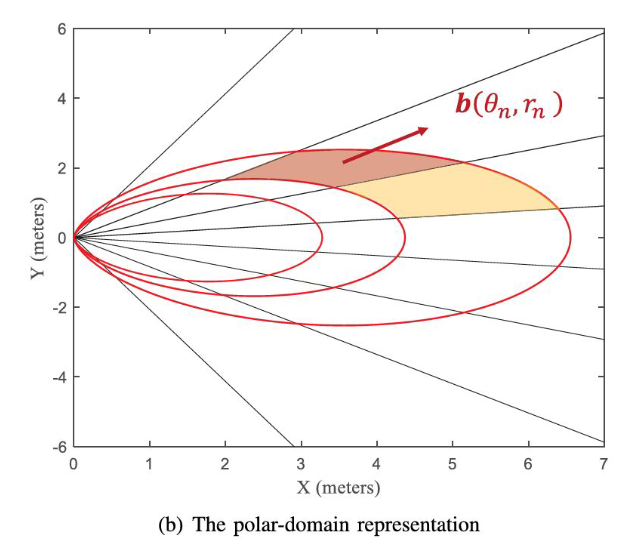
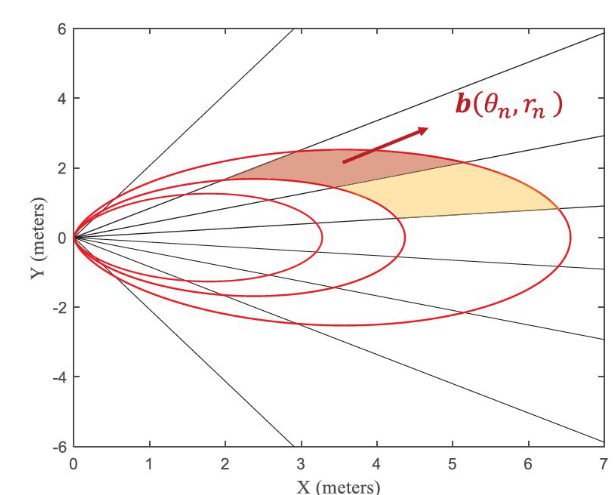
Restructure report: merge W-design sections, fix figure placement, set XeLaTeX
- Add XeLaTeX engine hints (magic comment + .latexmkrc) so fontspec compiles
- Reflow content (remove forced \newpage) and shrink figures toward 5-page limit
- Merge angular/distance sampling and matrix construction into "Design of W" subsections
- Move Polar_domain figure into the Design-of-W section; keep system model early
- Remove Conclusion section and all slide/presentation self-references
- Update Polar_domain.png; ignore latexmk build artifacts

diff --git a/reports/pwc_final_report.tex b/reports/pwc_final_report.tex
@@ -1,3 +1,6 @@
+% !TEX program = xelatex
+% Requires XeLaTeX (or LuaLaTeX): this document uses fontspec/system fonts
+% and will NOT compile with pdflatex.
 \documentclass[12pt,a4paper]{article}
 
 \usepackage[a4paper,margin=1in]{geometry}
@@ -112,7 +115,8 @@ region extending over a large part of a cell.
       {planar wave\\angle $\theta$ only};
     \node[note] at (7.7,-0.9) {Rayleigh boundary};
   \end{tikzpicture}
-  \caption{Propagation models emphasized in the group presentation.}
+  \caption{Far-field (planar-wave) and near-field (spherical-wave)
+  propagation separated by the Rayleigh boundary.}
   \label{fig:fields}
 \end{figure}
 
@@ -121,10 +125,8 @@ $\fieldvec{a}(\theta)$ is sufficient. Near-field phase also depends on
 distance and requires $\fieldvec{b}(\theta,r)$. An angle-only dictionary
 therefore spreads one physical near-field path over many bins.
 
-\newpage
-
 % ---------------------------------------------------------------------------
-% Page 2: Polar-domain representation
+% Near-field channel model (content flows continuously; no forced page break)
 % ---------------------------------------------------------------------------
 \tightsection{Near-Field Channel Model}
 
@@ -160,26 +162,10 @@ $N$, compressed sensing is needed to recover the channel from few pilots.
 
 \begin{figure}[ht]
   \centering
-  \includegraphics[width=0.78\textwidth]{../photos/channel_model.png}
+  \includegraphics[width=0.60\textwidth]{../photos/channel_model.png}
   \caption{System model: the $N$-element array, analog combiner
   $\fieldvec{A}$, RF chains, and polar-domain transform $\fieldvec{W}$.}
   \label{fig:channel-model}
-\end{figure}
-
-Figure~\ref{fig:polar-domain} shows the polar-domain representation in
-physical coordinates. Each elliptical contour corresponds to a distance
-ring on which angles are sampled uniformly. The steering vector
-$\fieldvec{b}(\theta_n,r_n)$ points to a specific angle--distance pair.
-Closer rings are spaced more densely because the sampling is uniform in
-inverse distance $1/r$, which ensures low mutual coherence between
-adjacent columns of $\fieldvec{W}$.
-
-\begin{figure}[ht]
-  \centering
-  \includegraphics[width=0.48\textwidth]{../photos/Polar_domain.png}
-  \caption{The polar-domain representation: distance rings and steering
-  vectors $\fieldvec{b}(\theta_n,r_n)$, adapted from \cite{cui2022}.}
-  \label{fig:polar-domain}
 \end{figure}
 
 With a limited number of paths, the channel remains compressible even
@@ -197,7 +183,7 @@ are shared across subcarriers, which enables simultaneous recovery.
 
 \begin{figure}[ht]
   \centering
-  \begin{tikzpicture}[x=0.72cm,y=2.2cm,font=\small,scale=0.95,transform shape]
+  \begin{tikzpicture}[x=0.66cm,y=1.85cm,font=\small,scale=0.82,transform shape]
     % Left axes
     \draw[->] (0,0) -- (7.2,0) node[right] {angle};
     \draw[->] (0,0) -- (0,1.15) node[above] {magnitude};
@@ -230,17 +216,15 @@ are shared across subcarriers, which enables simultaneous recovery.
   \label{fig:sparsity}
 \end{figure}
 
-Figure~\ref{fig:sparsity} captures the key motivation selected by the
-group. In the angular domain, a far-field path forms a narrow peak, while
+Figure~\ref{fig:sparsity} captures the key motivation. In the angular
+domain, a far-field path forms a narrow peak, while
 a near-field path occupies many bins. In the polar domain, each path is
 represented by an angle--distance pair and the channel again contains only
 a few significant coefficients. This restored sparsity is what makes
 low-pilot compressed sensing practical.
 
-\newpage
-
 % ---------------------------------------------------------------------------
-% Page 3: Transform matrix W
+% Transform matrix W
 % ---------------------------------------------------------------------------
 \tightsection{Design of the Polar-Domain Matrix \texorpdfstring{$W$}{W}}
 
@@ -252,10 +236,26 @@ Fresnel approximation separates its phase into
   \label{eq:fresnel}
 \end{equation}
 The linear term describes angle; the quadratic term contains the coupled
-quantity $(1-\theta^2)/r$. This yields the two sampling rules emphasized in
-slides 9--17.
+quantity $(1-\theta^2)/r$. This yields the two sampling rules below.
 
-\tightsection{Angular Sampling on Distance Rings}
+\begin{figure}[ht]
+  \centering
+  \includegraphics[width=0.40\textwidth]{../photos/Polar_domain.png}
+  \caption{The polar-domain grid produced by the design: distance rings
+  with uniformly sampled angles and steering vectors
+  $\fieldvec{b}(\theta_n,r_n)$, adapted from \cite{cui2022}.}
+  \label{fig:polar-domain}
+\end{figure}
+
+Figure~\ref{fig:polar-domain} shows the resulting polar-domain grid in
+physical coordinates. Each elliptical contour corresponds to a distance
+ring on which angles are sampled uniformly. The steering vector
+$\fieldvec{b}(\theta_n,r_n)$ points to a specific angle--distance pair.
+Closer rings are spaced more densely because the sampling is uniform in
+inverse distance $1/r$, which ensures low mutual coherence between
+adjacent columns of $\fieldvec{W}$.
+
+\subsection{Angular Sampling on Distance Rings}
 
 Locations satisfying
 \begin{equation}
@@ -271,7 +271,7 @@ far-field Fourier dictionary. Therefore the angles are sampled uniformly:
   \label{eq:angle-sampling}
 \end{equation}
 
-\tightsection{Nonuniform Distance Sampling}
+\subsection{Nonuniform Distance Sampling}
 
 For vectors at the same angle, coherence depends on the difference between
 inverse distances. To keep adjacent columns below a chosen coherence
@@ -315,7 +315,7 @@ not uniformly in metres.
   \label{fig:rings}
 \end{figure}
 
-\tightsection{Matrix Construction}
+\subsection{Matrix Construction}
 
 Each ring produces
 \begin{equation}
@@ -327,10 +327,8 @@ and $\fieldvec{W}=[\fieldvec{W}_0,\ldots,\fieldvec{W}_{S-1}]
 \in\mathbb{C}^{N\times NS}$. The $s=0$ far-field ring makes the Fourier
 dictionary a special case.
 
-\newpage
-
 % ---------------------------------------------------------------------------
-% Page 4: Algorithms
+% Algorithms
 % ---------------------------------------------------------------------------
 \tightsection{Near-Field Channel Estimation Algorithms}
 
@@ -354,26 +352,25 @@ angles and distances are common across subcarriers.
   \begin{tikzpicture}[
       >=Latex,
       box/.style={draw,rounded corners,minimum width=5.55cm,
-                  minimum height=0.78cm,align=center,font=\small},
+                  minimum height=0.58cm,align=center,font=\small},
       arrow/.style={->,thick}
     ]
     \node[box,fill=softgray] (input) at (0,0)
       {Pilots, combiner, and polar dictionary};
-    \node[box,fill=farblue!10,below=0.35cm of input] (white)
+    \node[box,fill=farblue!10,below=0.24cm of input] (white)
       {Pre-whiten observations and sensing matrix};
-    \node[box,fill=farblue!14,below=0.35cm of white] (psomp)
+    \node[box,fill=farblue!14,below=0.24cm of white] (psomp)
       {P-SOMP: support search, least squares,\\residual update, channel synthesis};
-    \node[box,fill=nearorange!13,right=0.65cm of psomp] (psigw)
+    \node[box,fill=nearorange!13,right=0.55cm of psomp] (psigw)
       {P-SIGW: initialize from P-SOMP,\\refine angle, distance, and gain};
-    \node[box,fill=darkgreen!12,below=0.55cm of psigw] (output)
+    \node[box,fill=darkgreen!12,below=0.38cm of psigw] (output)
       {Off-grid channel estimate};
     \draw[arrow] (input) -- (white);
     \draw[arrow] (white) -- (psomp);
     \draw[arrow] (psomp) -- (psigw);
     \draw[arrow] (psigw) -- (output);
   \end{tikzpicture}
-  \caption{Combined workflow of the two algorithms emphasized in the
-  group presentation.}
+  \caption{Combined workflow of the P-SOMP and P-SIGW algorithms.}
   \label{fig:algorithms}
 \end{figure}
 
@@ -453,10 +450,8 @@ $\hat{\fieldvec{H}}
  \hat{\fieldvec{G}}^n$
 and return $\hat{\fieldvec{H}}$.
 
-\newpage
-
 % ---------------------------------------------------------------------------
-% Page 5: Results and conclusion
+% Results and conclusion
 % ---------------------------------------------------------------------------
 \tightsection{Simulation Results}
 
@@ -467,7 +462,7 @@ from Fig.~10 of the paper rather than reproducing its image.
 
 \begin{figure}[ht]
   \centering
-  \begin{tikzpicture}[x=0.075cm,y=0.22cm,font=\small]
+  \begin{tikzpicture}[x=0.060cm,y=0.165cm,font=\small]
     \draw[->] (0,0) -- (125,0) node[right] {distance (m)};
     \draw[->] (0,-25) -- (0,1) node[above] {NMSE (dB)};
     \foreach \x in {20,40,60,80,100,120}
@@ -511,7 +506,7 @@ planar. P-SOMP is much less sensitive to distance because its dictionary
 contains the required angle--distance atoms. P-SIGW is best because it
 also removes the polar-grid quantization error.
 
-The other experiments selected by the group support the same conclusion.
+The other experiments in the paper support the same conclusion.
 As SNR increases, near-field polar methods continue improving while
 mismatched angular methods approach an error floor. In the far-field
 setting, the polar methods match the angular baselines and become
@@ -519,14 +514,6 @@ slightly better at high SNR, because the Fresnel approximation is more
 accurate than the planar-wave one. Increasing pilot length improves all
 compressed-sensing estimators, but the gain is much larger when the
 representation matches the propagation physics.
-
-\tightsection{Conclusion}
-
-XL-MIMO does not destroy physical channel sparsity; it destroys
-\emph{angle-only} sparsity. Uniform angle sampling on distance rings and
-nonuniform sampling in $1/r$ let $\fieldvec{W}$ concentrate spherical
-paths. P-SOMP exploits this structure with low pilot overhead, while
-P-SIGW trades extra computation for off-grid accuracy.
 
 \renewcommand{\refname}{References}
 \begin{thebibliography}{1}